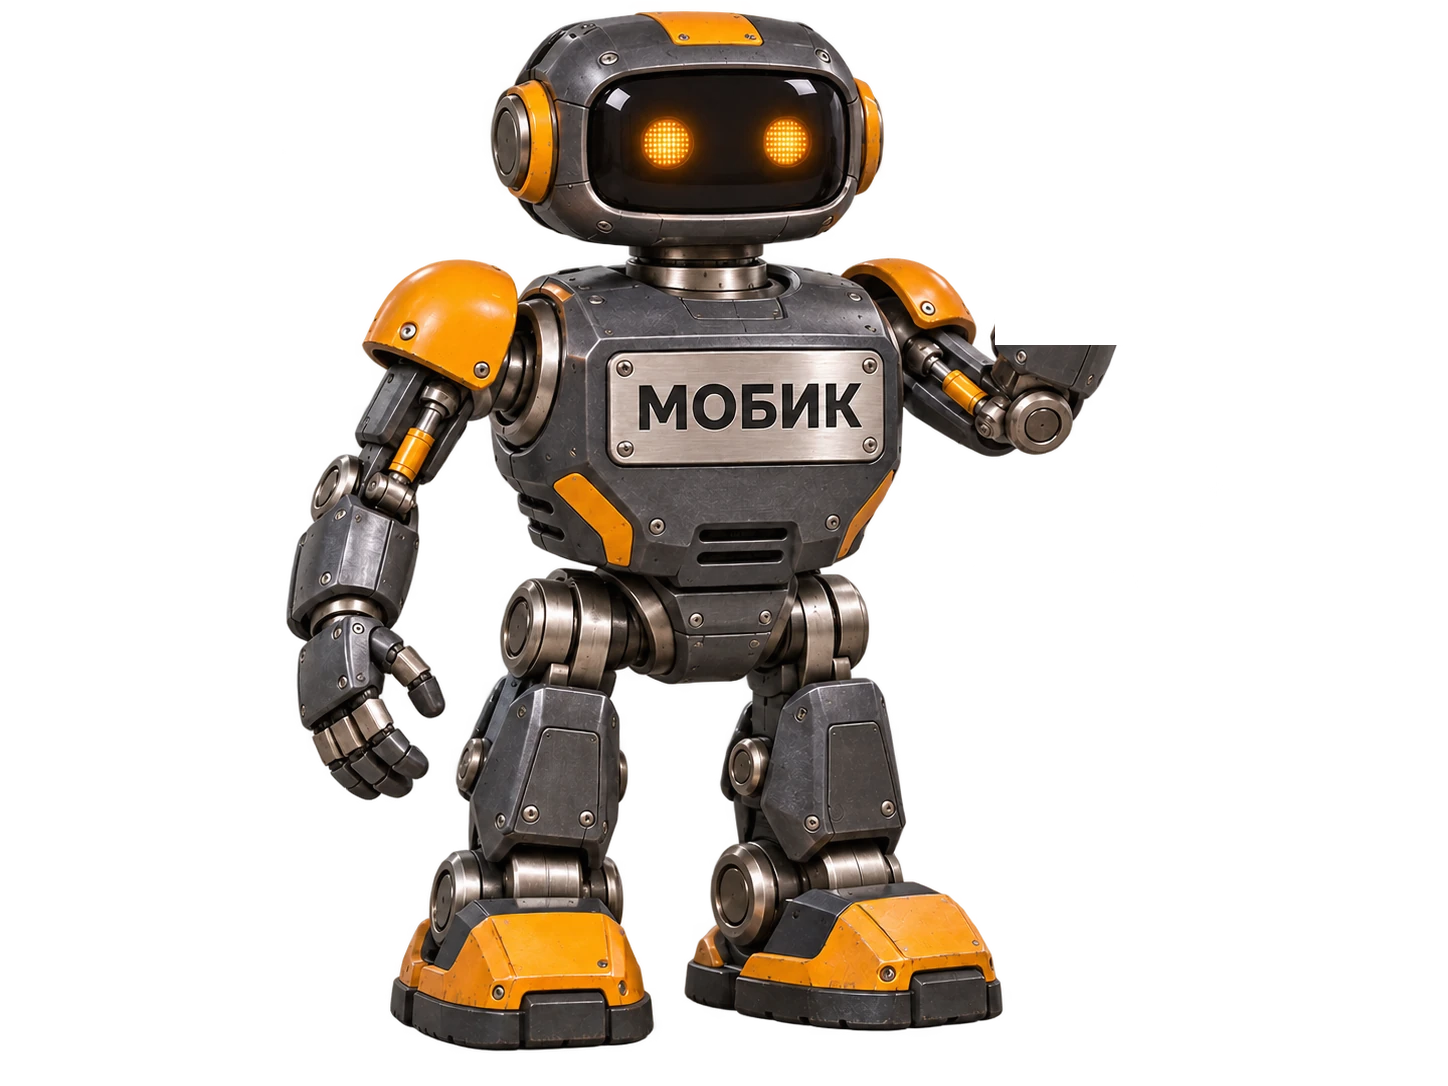
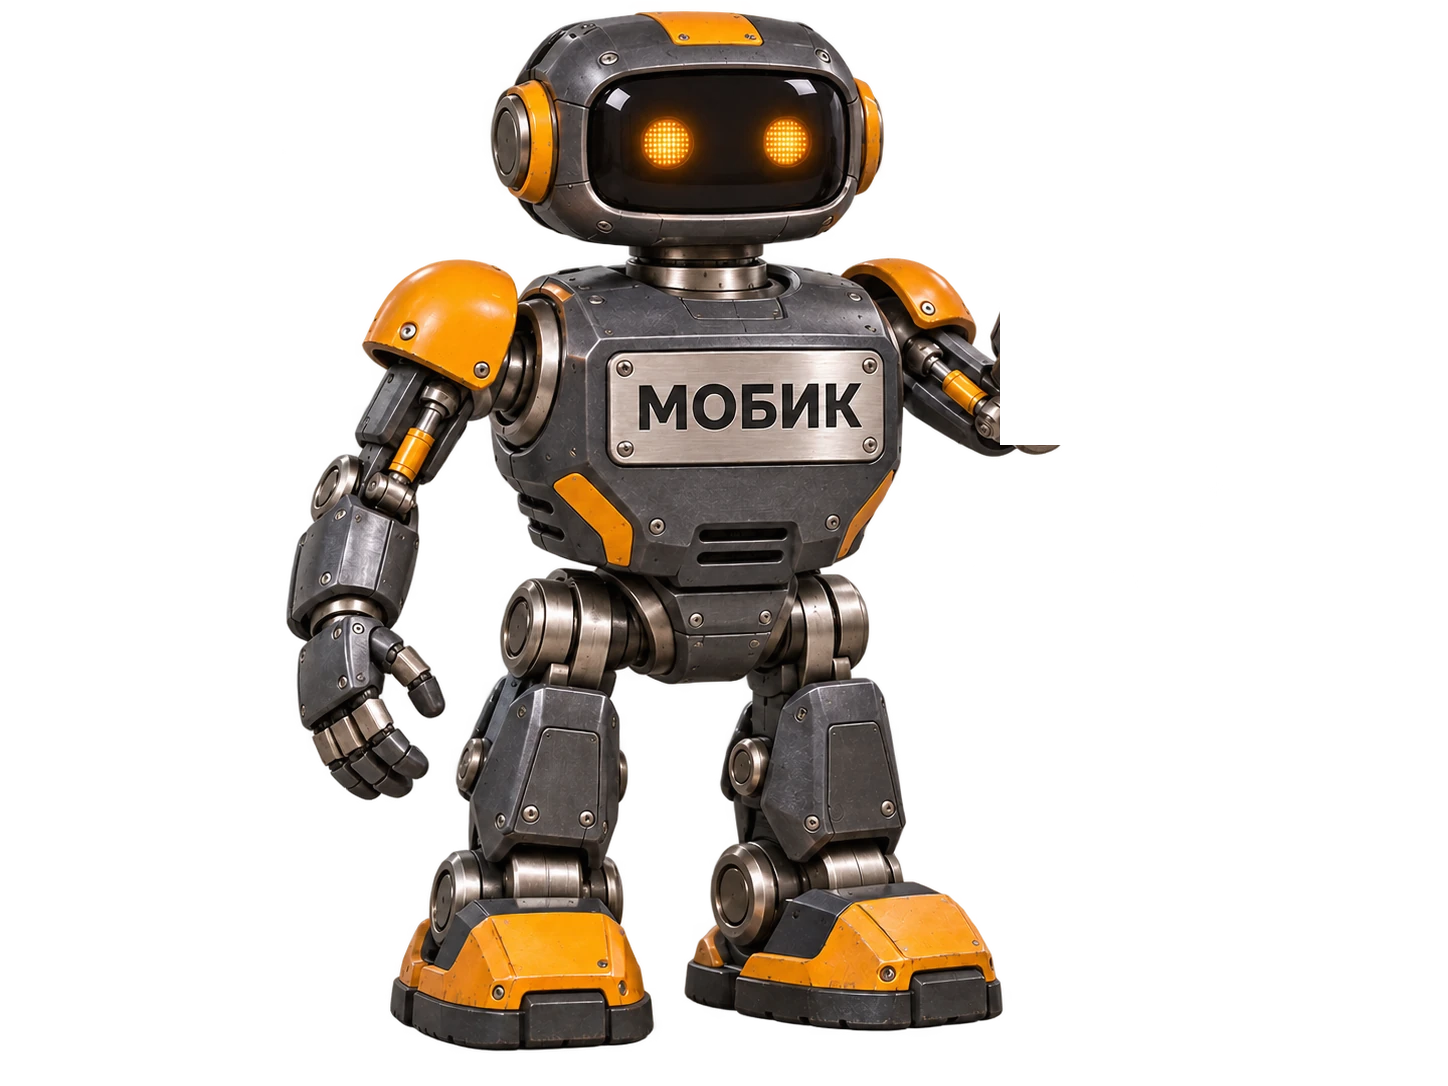
Робот: двигается кисть с предплечьем; улыбка убрана

Changed region(s): [[0.6837, 0.3039, 0.7769, 0.4254]]

diff --git a/index.html b/index.html
@@ -1679,8 +1679,8 @@
         .mobik-fixed { position: fixed; left: 10px; top: 160px; width: 440px; z-index: 60; margin: 0; pointer-events: none; }
         .mobik .mobik-body { display: block; width: 100%; height: auto; }
         .mobik .mobik-hand {
-            position: absolute; left: 68.72%; top: 3.68%; width: 21.41%;
-            transform-origin: 30% 79%;
+            position: absolute; left: 69.06%; top: 4.6%; width: 20.72%;
+            transform-origin: 18% 92%;
         }
         .mobik-eye {
             position: absolute; top: 10.4%; width: 3.8%; height: 5%;
@@ -1690,10 +1690,6 @@
         }
         .mobik-eye-l { left: 44.0%; }
         .mobik-eye-r { left: 52.3%; }
-        .mobik-smile {
-            position: absolute; left: 47.0%; top: 17.4%; width: 6.0%; height: 2.8%;
-            pointer-events: none;
-        }
         @media (prefers-reduced-motion: no-preference) {
             .mobik .mobik-hand { animation: mobik-wave 2.6s ease-in-out infinite; }
             .mobik-eye { animation: mobik-blink 5s ease-in-out infinite; }
@@ -1736,7 +1732,6 @@
         <img class="mobik-hand" src="img/mobik-hand.webp" alt="" aria-hidden="true">
         <span class="mobik-eye mobik-eye-l" aria-hidden="true"></span>
         <span class="mobik-eye mobik-eye-r" aria-hidden="true"></span>
-        <svg class="mobik-smile" viewBox="0 0 100 40" aria-hidden="true"><path d="M8 8 Q50 46 92 8" fill="none" stroke="#cc0000" stroke-width="9" stroke-linecap="round"/></svg>
     </div>
 
     <div id="calcPanel" class="calc-panel">
